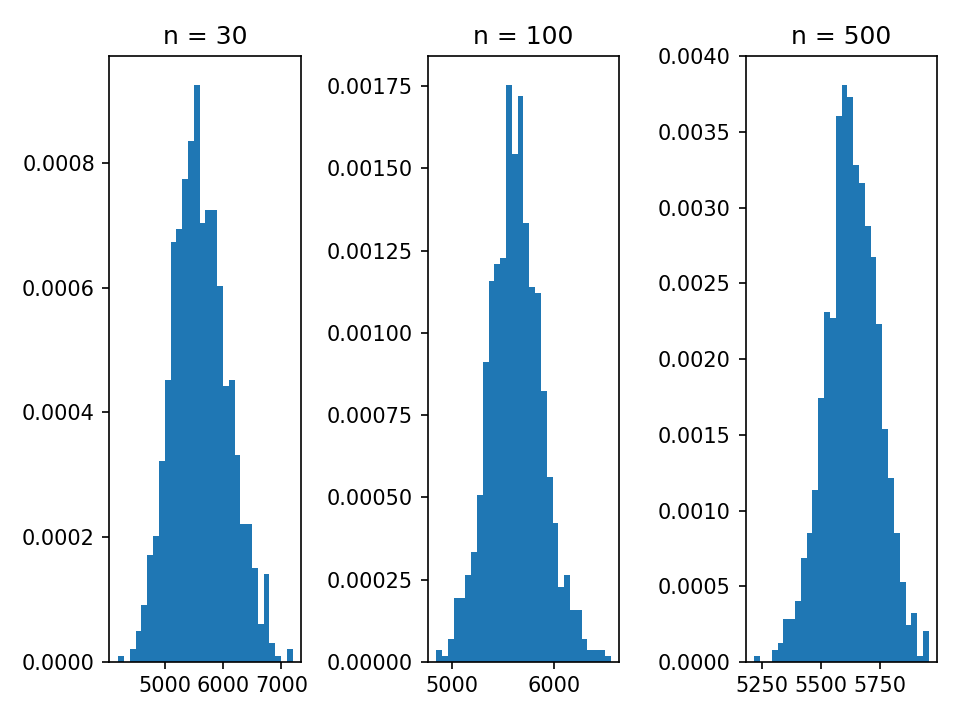
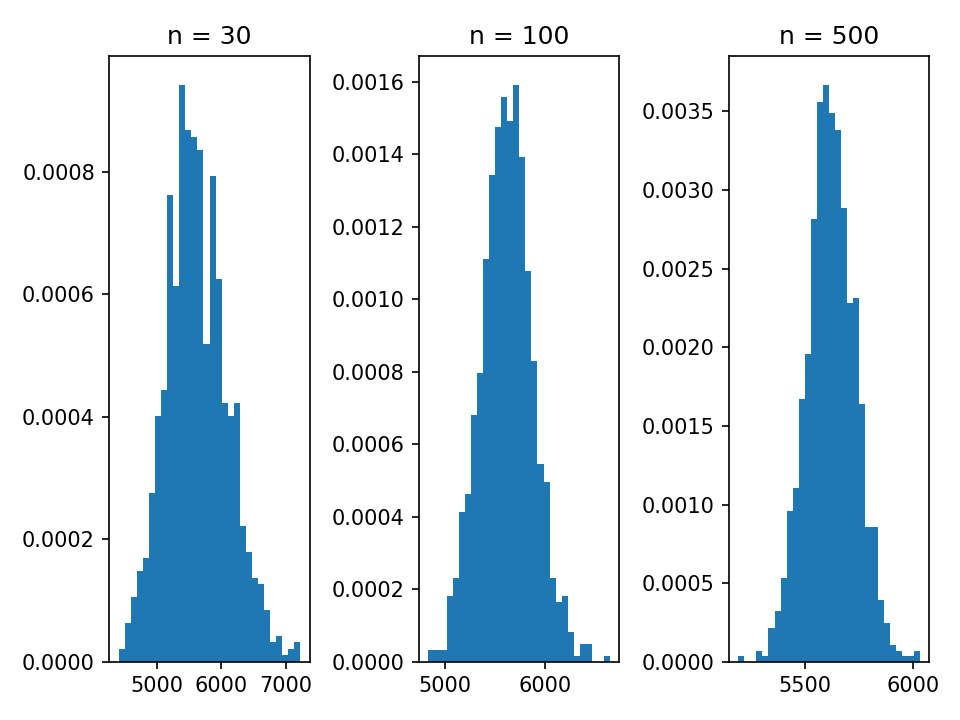
confidence_intervals function and phase 3 completed

diff --git a/milano_analysis.py b/milano_analysis.py
@@ -525,12 +525,73 @@ def draw_sample(df_clean):
 
     return se_df
 
+def confidence_intervals(df_clean):
+
+    confidence_level = 0.95
+    alpha = 0.05
+    n = [30, 100, 500]
+    population_mean = df_clean['price_per_mq'].mean()
+
+    intervals_30 = []
+    intervals_100 = []
+    intervals_500 = []
+
+    for sample_size in n:
+        t_critical = stats.t.ppf(1 - alpha/2, df = sample_size-1)
+
+        for i in range(1000):
+            sample = df_clean.sample(sample_size, replace=False)
+            sample_mean = sample['price_per_mq'].mean()
+            sample_std = sample['price_per_mq'].std()
+
+            margin_error = t_critical * (sample_std / np.sqrt(sample_size))
+            lower = sample_mean - margin_error
+            upper = sample_mean + margin_error
+
+            if sample_size == 30:
+                intervals_30.append((lower, upper))
+
+            elif sample_size == 100:
+                intervals_100.append((lower, upper))
+
+            else:
+                intervals_500.append((lower, upper))
+
+    coverage_30 = 0
+    coverage_100 = 0
+    coverage_500 = 0
+
+    for lower, upper in intervals_30:
+        
+        if lower <= population_mean <= upper:
+            coverage_30 += 1
+            
+    coverage_30_percent = coverage_30 / 1000 * 100
+
+    for lower, upper in intervals_100:
+
+        if lower <= population_mean <= upper:
+            coverage_100 += 1 
+
+    coverage_100_percent = coverage_100 / 1000 * 100
+
+    for lower, upper in intervals_500:
+    
+            if lower <= population_mean <= upper:
+                coverage_500 += 1 
+    coverage_500_percent = coverage_500 / 1000 * 100
+
+    print('Coverage 30:', round(coverage_30_percent, 2), '%')
+    print('Coverage 100:', round(coverage_100_percent, 2), '%')
+    print('Coverage 500:', round(coverage_500_percent, 2), '%')
     
 
-    
+            
 
-
     
+       
+
+       
 #main program
 
 #data inspection
@@ -596,7 +657,10 @@ print('\n')
 print('PHASE 3 - SAMPLING & CONFIDENCE INTERVALS')
 print('\n')
 population_parameters(df_clean, 'price_per_mq')
+print('\n')
 draw_sample(df_clean)
+print('\n')
+confidence_intervals(df_clean)
 
 
 
